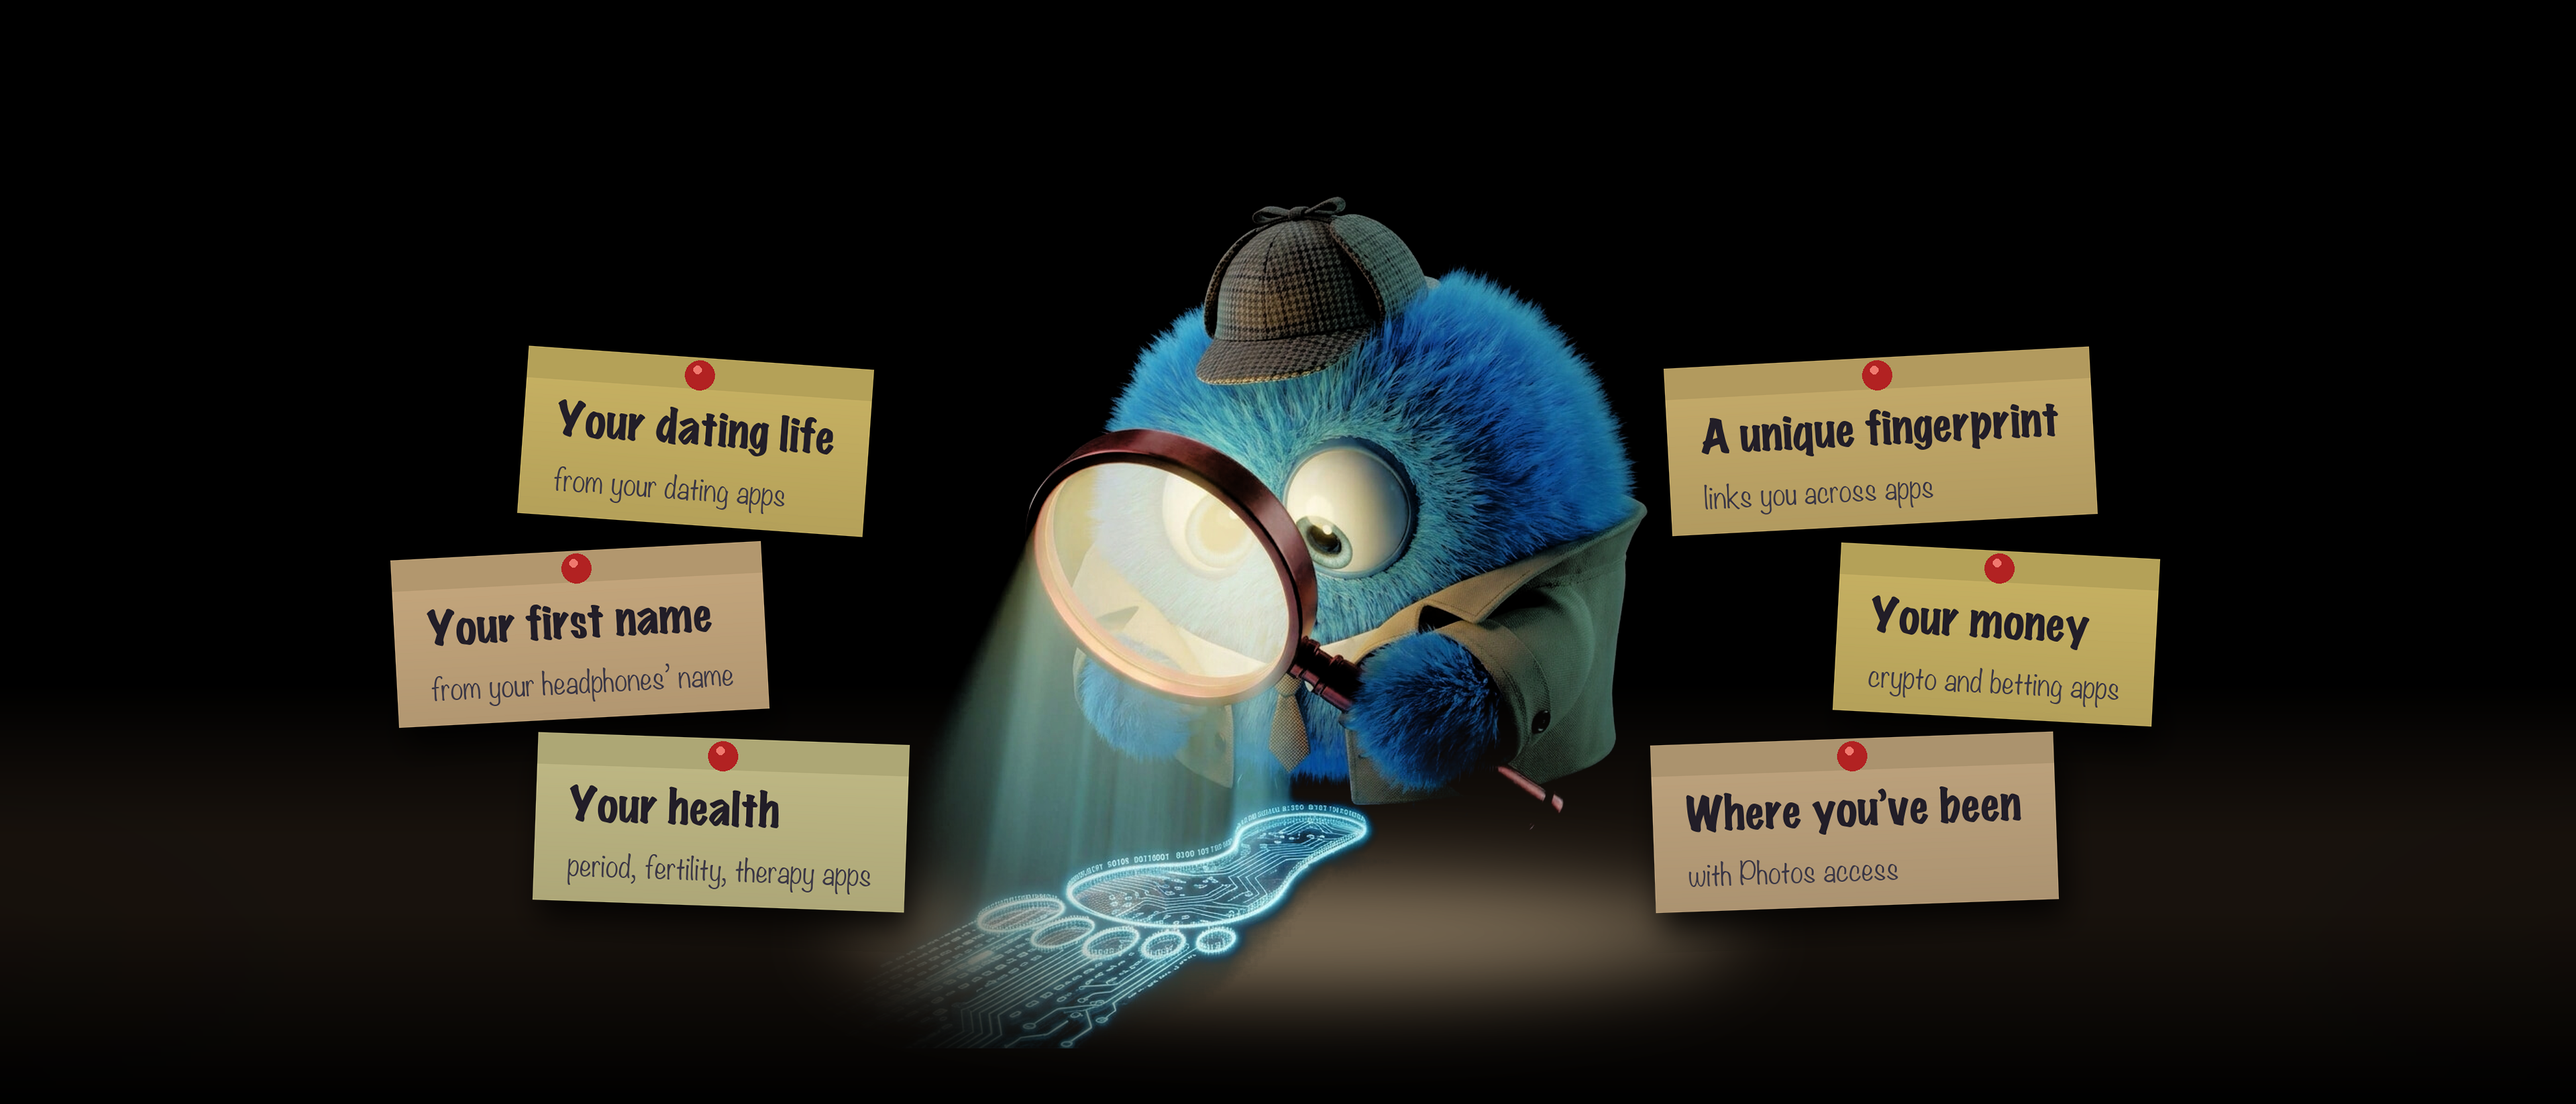
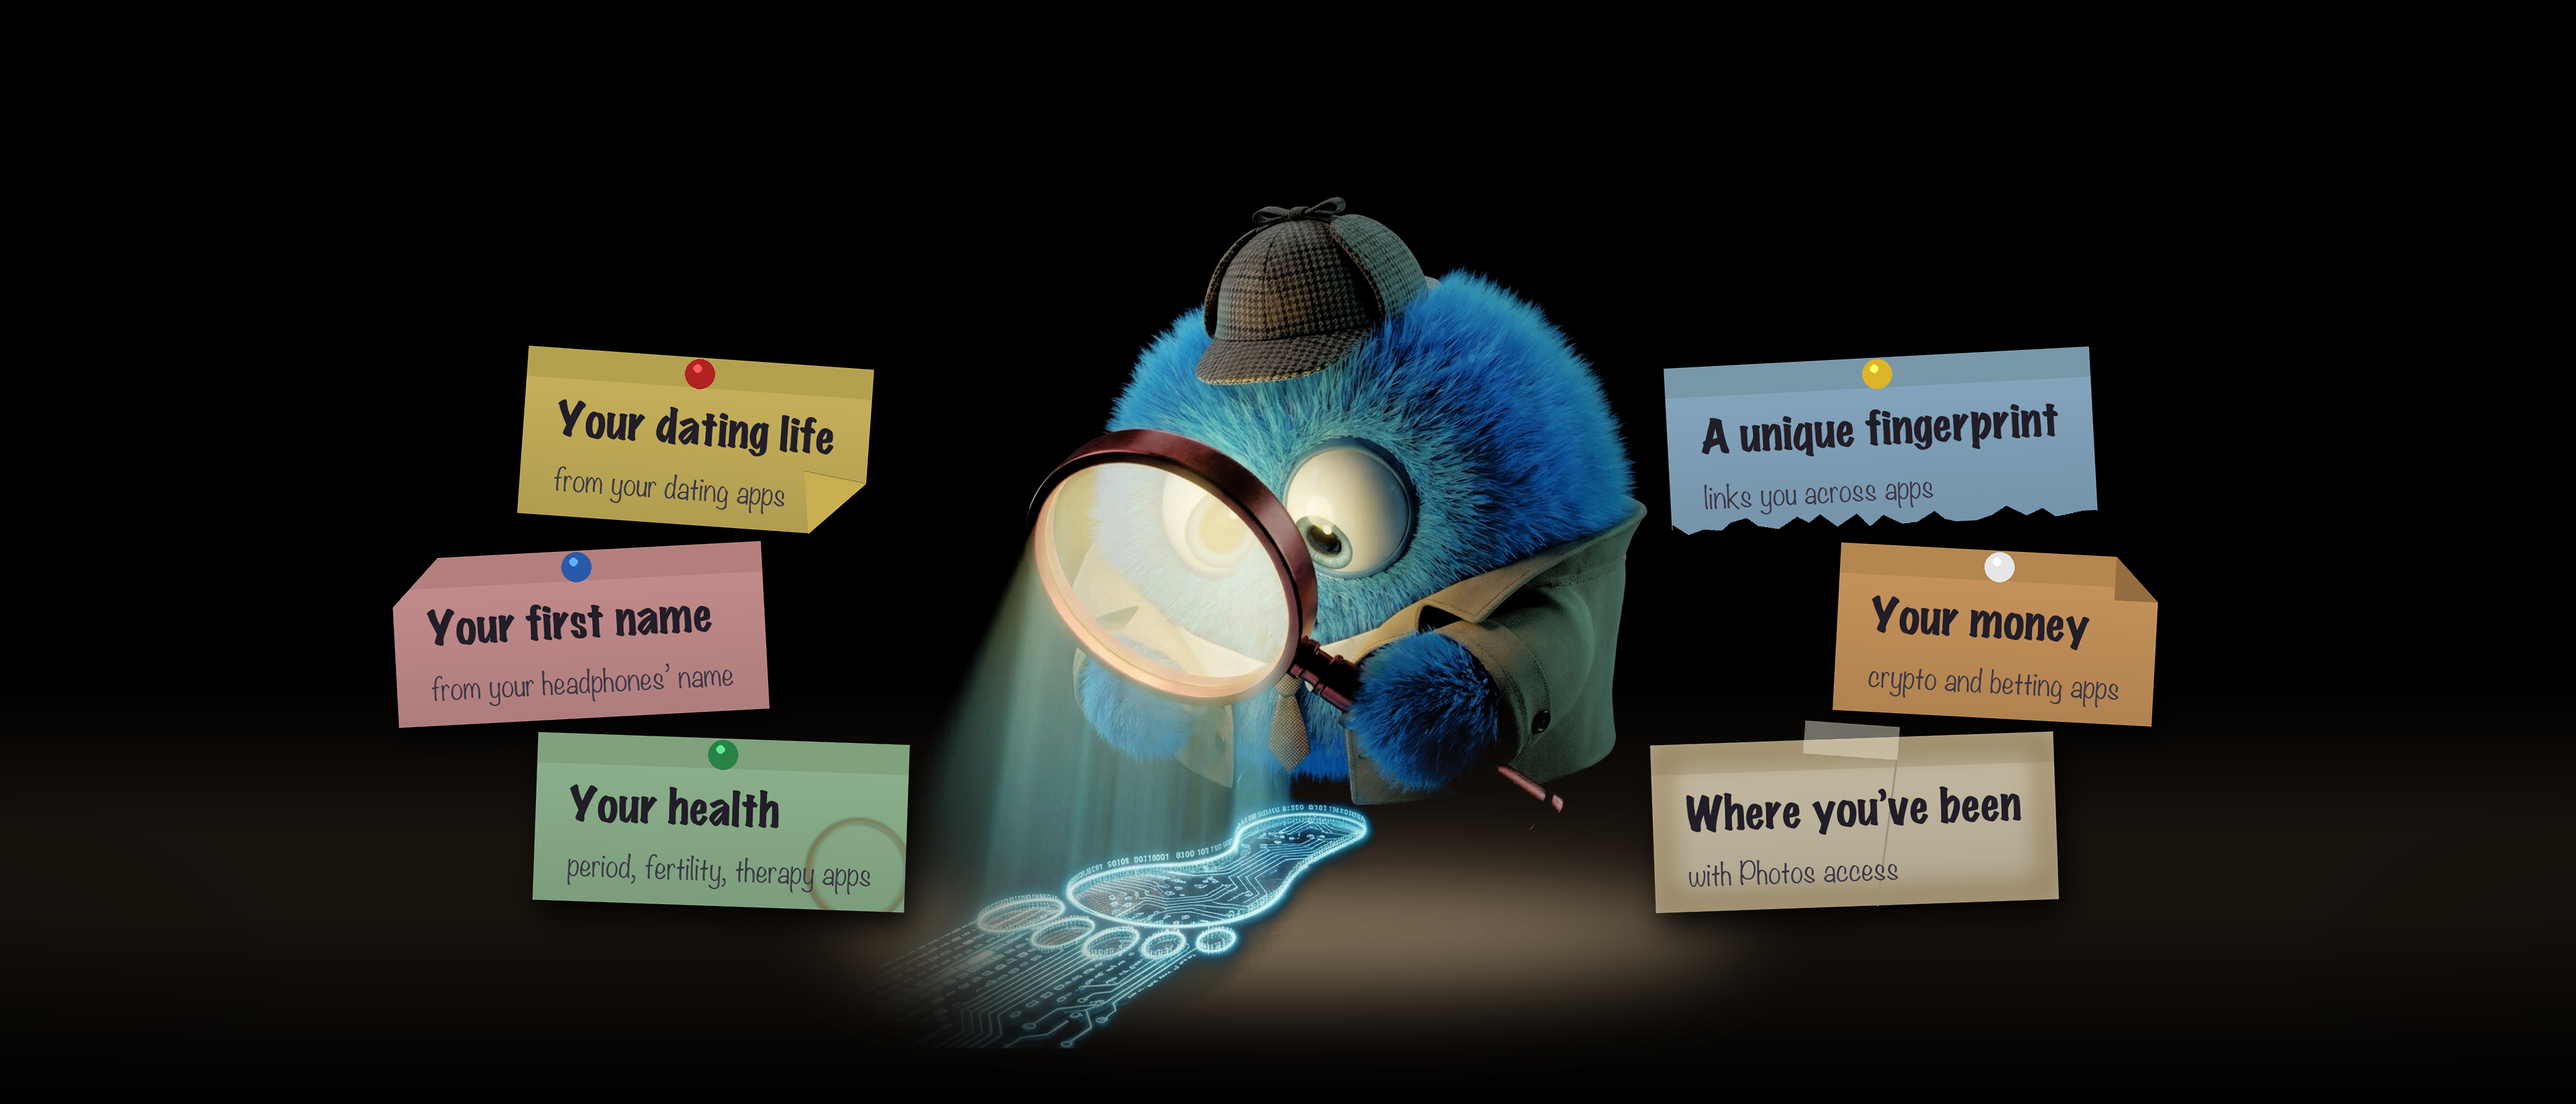
Header: each sticky note its own colour, pin and wear (owner)

Changed region(s): [[0.625, 0.3098, 0.8438, 0.8056], [0.125, 0.4957, 0.375, 0.8366], [0.3125, 0.4338, 0.3438, 0.4957]]

diff --git a/scripts/make-creative-assets.py b/scripts/make-creative-assets.py
@@ -66,35 +66,78 @@ def concern(canvas, x, y, label, value, anchor, w):
     d.text((tx, y0 + pad_y + 72 + 12), value, font=vf, fill=MUTED)
 
 
-def sticky_note(canvas, cx, cy, label, value, angle, colour):
-    """A detective's sticky note: square-ish paper in a warm yellow, a red pin at the top, the clue
-    in marker and where it comes from in pen, slightly askew, with a soft shadow on the stage."""
+def sticky_note(canvas, cx, cy, label, value, angle, colour, wear, pin):
+    """A detective's sticky note, aged: each one its own colour, pin and wear (a rolled corner, a
+    cut corner, a torn edge, a coffee ring, a dog-ear, tape and yellowing), slightly askew, with a
+    soft shadow on the stage. Clue in marker, where it comes from in pen."""
+    import random
+    rnd = random.Random(label)
     marker = ImageFont.truetype("/System/Library/Fonts/Supplemental/MarkerFelt.ttc", 64, index=1)
     pen = ImageFont.truetype("/System/Library/Fonts/Supplemental/Noteworthy.ttc", 42, index=0)
     probe = ImageDraw.Draw(Image.new("RGB", (8, 8)))
     nw = int(max(probe.textlength(label, font=marker), probe.textlength(value, font=pen)) + 100)
     nh = 250
-    note = Image.new("RGBA", (nw + 120, nh + 120), (0, 0, 0, 0))
-    d = ImageDraw.Draw(note)
-    x0, y0 = 60, 60
-    # Shadow, then the paper with a slightly darker sticky strip and a curled bottom edge.
-    sh = Image.new("RGBA", note.size, (0, 0, 0, 0))
-    ImageDraw.Draw(sh).rectangle((x0 + 10, y0 + 22, x0 + nw + 10, y0 + nh + 26), fill=(0, 0, 0, 200))
-    note.alpha_composite(sh.filter(ImageFilter.GaussianBlur(22)))
-    r, g, b = (int(v * 0.84) for v in colour)          # paper in a dark room
+    pad = 60
+    W, H = nw + pad * 2, nh + pad * 2
+    x0, y0, x1, y1 = pad, pad, pad + nw, pad + nh
+    # The paper's outline, shaped by the wear.
+    shape = [(x0, y0), (x1, y0), (x1, y1), (x0, y1)]
+    if wear == "cut":                       # a corner snipped off
+        shape = [(x0 + 70, y0), (x1, y0), (x1, y1), (x0, y1), (x0, y0 + 70)]
+    elif wear == "torn":                    # a ragged bottom edge
+        edge = [(x1, y1 - 6)]
+        x = x1
+        while x > x0:
+            x -= rnd.randint(14, 30); edge.append((max(x, x0), y1 - rnd.randint(0, 22)))
+        shape = [(x0, y0), (x1, y0)] + edge + [(x0, y1 - 10)]
+    elif wear == "curl":                    # bottom-right corner rolled up
+        shape = [(x0, y0), (x1, y0), (x1, y1 - 80), (x1 - 80, y1), (x0, y1)]
+    elif wear == "dogear":                  # top-right corner folded over
+        shape = [(x0, y0), (x1 - 64, y0), (x1, y0 + 64), (x1, y1), (x0, y1)]
+    mask = Image.new("L", (W, H), 0); ImageDraw.Draw(mask).polygon(shape, fill=255)
+    note = Image.new("RGBA", (W, H), (0, 0, 0, 0))
+    shadow = Image.new("RGBA", (W, H), (0, 0, 0, 0))
+    shadow.putalpha(mask.point(lambda v: int(v * 0.8)))
+    note.alpha_composite(shadow.filter(ImageFilter.GaussianBlur(20)), (10, 22))
+    # Paper: its colour dimmed for a dark room, a darker sticky strip, light falling off downwards.
+    r, g, b = (int(v * 0.84) for v in colour)
+    paper = Image.new("RGBA", (W, H), (0, 0, 0, 0)); pd = ImageDraw.Draw(paper)
     for i in range(nh):
-        t = i / nh
-        shade = 1.0 - 0.10 * t
-        d.line((x0, y0 + i, x0 + nw, y0 + i), fill=(int(r * shade), int(g * shade), int(b * shade), 255))
-    d.rectangle((x0, y0, x0 + nw, y0 + 46), fill=(int(r * 0.9), int(g * 0.9), int(b * 0.88), 255))
-    # Red pin
-    px, py = x0 + nw // 2, y0 + 26
-    d.ellipse((px - 22, py - 22, px + 22, py + 22), fill=(178, 34, 34, 255))
-    d.ellipse((px - 10, py - 14, px + 2, py - 2), fill=(240, 120, 110, 255))
-    # Writing
+        k = 1.0 - 0.12 * i / nh
+        pd.line((x0, y0 + i, x1, y0 + i), fill=(int(r * k), int(g * k), int(b * k), 255))
+    pd.rectangle((x0, y0, x1, y0 + 44), fill=(int(r * 0.9), int(g * 0.9), int(b * 0.88), 255))
+    if wear == "aged":                      # yellowed, browned edges and a crease
+        edge = Image.new("L", (W, H), 0)
+        ImageDraw.Draw(edge).rectangle((x0, y0, x1, y1), outline=255, width=26)
+        brown = Image.new("RGBA", (W, H), (120, 84, 30, 0)); brown.putalpha(edge.filter(ImageFilter.GaussianBlur(18)).point(lambda v: int(v * 0.55)))
+        paper.alpha_composite(brown)
+        pd.line((x0 + nw * 0.62, y0, x0 + nw * 0.55, y1), fill=(int(r * 0.78), int(g * 0.78), int(b * 0.76), 255), width=3)
+    if wear == "coffee":                    # a coffee ring in the corner
+        ring = Image.new("RGBA", (W, H), (0, 0, 0, 0)); rd = ImageDraw.Draw(ring)
+        cx2, cy2, rr = x1 - 70, y1 - 60, 78
+        rd.ellipse((cx2 - rr, cy2 - rr, cx2 + rr, cy2 + rr), outline=(110, 70, 30, 120), width=9)
+        rd.ellipse((cx2 - rr + 8, cy2 - rr + 4, cx2 + rr - 4, cy2 + rr - 6), outline=(110, 70, 30, 50), width=4)
+        paper.alpha_composite(ring.filter(ImageFilter.GaussianBlur(2)))
+    paper.putalpha(Image.composite(paper.getchannel("A"), Image.new("L", (W, H), 0), mask))
+    note.alpha_composite(paper)
+    nd = ImageDraw.Draw(note)
+    if wear == "curl":                      # the rolled-up flap, lit on its back
+        nd.polygon([(x1, y1 - 80), (x1 - 80, y1), (x1 - 92, y1 - 92)], fill=(int(r * 1.0), int(g * 0.98), int(b * 0.9), 255))
+        nd.line((x1, y1 - 80, x1 - 92, y1 - 92), fill=(int(r * 0.7), int(g * 0.7), int(b * 0.65), 255), width=2)
+    if wear == "dogear":                    # the folded-over corner
+        nd.polygon([(x1 - 64, y0), (x1, y0 + 64), (x1 - 64, y0 + 64)], fill=(int(r * 0.74), int(g * 0.74), int(b * 0.7), 255))
+    # Fixing: a pin of its own colour, or a strip of tape.
+    if pin == "tape":
+        tape = Image.new("RGBA", (W, H), (0, 0, 0, 0))
+        ImageDraw.Draw(tape).rectangle((x0 + nw / 2 - 70, y0 - 22, x0 + nw / 2 + 70, y0 + 26), fill=(235, 230, 210, 120))
+        note.alpha_composite(tape.rotate(-6, resample=Image.BICUBIC, center=(x0 + nw / 2, y0)))
+    else:
+        px, py = x0 + nw // 2, y0 + 24
+        nd.ellipse((px - 22, py - 22, px + 22, py + 22), fill=(*pin, 255))
+        nd.ellipse((px - 10, py - 14, px + 2, py - 2), fill=tuple(min(255, int(v * 1.5) + 40) for v in pin) + (255,))
     ink, pen_ink = (34, 30, 40, 255), (60, 56, 70, 255)
-    d.text((x0 + 50, y0 + 70), label, font=marker, fill=ink)
-    d.text((x0 + 50, y0 + 158), value, font=pen, fill=pen_ink)
+    nd.text((x0 + 50, y0 + 70), label, font=marker, fill=ink)
+    nd.text((x0 + 50, y0 + 158), value, font=pen, fill=pen_ink)
     note = note.rotate(angle, resample=Image.BICUBIC, expand=True)
     canvas.alpha_composite(note, (int(cx - note.width / 2), int(cy - note.height / 2)))
 
@@ -144,11 +187,17 @@ def header(out):
     vig = vig.filter(ImageFilter.GaussianBlur(260))
     black = Image.new("RGBA", (w, h), (0, 0, 0, 255))
     c = Image.composite(c, black, vig)
-    # Six things an app can learn, on a detective's sticky notes pinned either side of him.
+    # Six things an app can learn, on a detective's aged sticky notes either side of him.
     spots = [(0.27, 0.40, -4), (0.225, 0.575, 3), (0.28, 0.745, -2), (0.73, 0.40, 3), (0.775, 0.575, -3), (0.72, 0.745, 2)]
-    colours = [(240, 214, 120), (236, 200, 150), (230, 222, 160), (236, 205, 128), (240, 214, 120), (228, 196, 150)]
-    for (fx, fy, angle), colour, (label, value) in zip(spots, colours, CONCERNS):
-        sticky_note(c, w * fx, h * fy, label, value, angle, colour)
+    # Each note its own colour, wear and fixing (owner, 2026-11-05): no two alike.
+    notes = [((240, 214, 110), "curl", (178, 34, 34)),     # yellow, rolled corner, red pin
+             ((236, 170, 170), "cut", (40, 90, 170)),      # pink, snipped corner, blue pin
+             ((170, 214, 170), "coffee", (40, 130, 70)),   # mint, coffee ring, green pin
+             ((160, 200, 230), "torn", (220, 180, 40)),    # blue, torn edge, yellow pin
+             ((240, 178, 110), "dogear", (230, 230, 230)), # orange, folded corner, white pin
+             ((236, 224, 196), "aged", "tape")]            # cream, yellowed and creased, taped
+    for (fx, fy, angle), (colour, wear, pin), (label, value) in zip(spots, notes, CONCERNS):
+        sticky_note(c, w * fx, h * fy, label, value, angle, colour, wear, pin)
     c.convert("RGB").save(out / "header-3840x1646.png", optimize=True)
 
 
